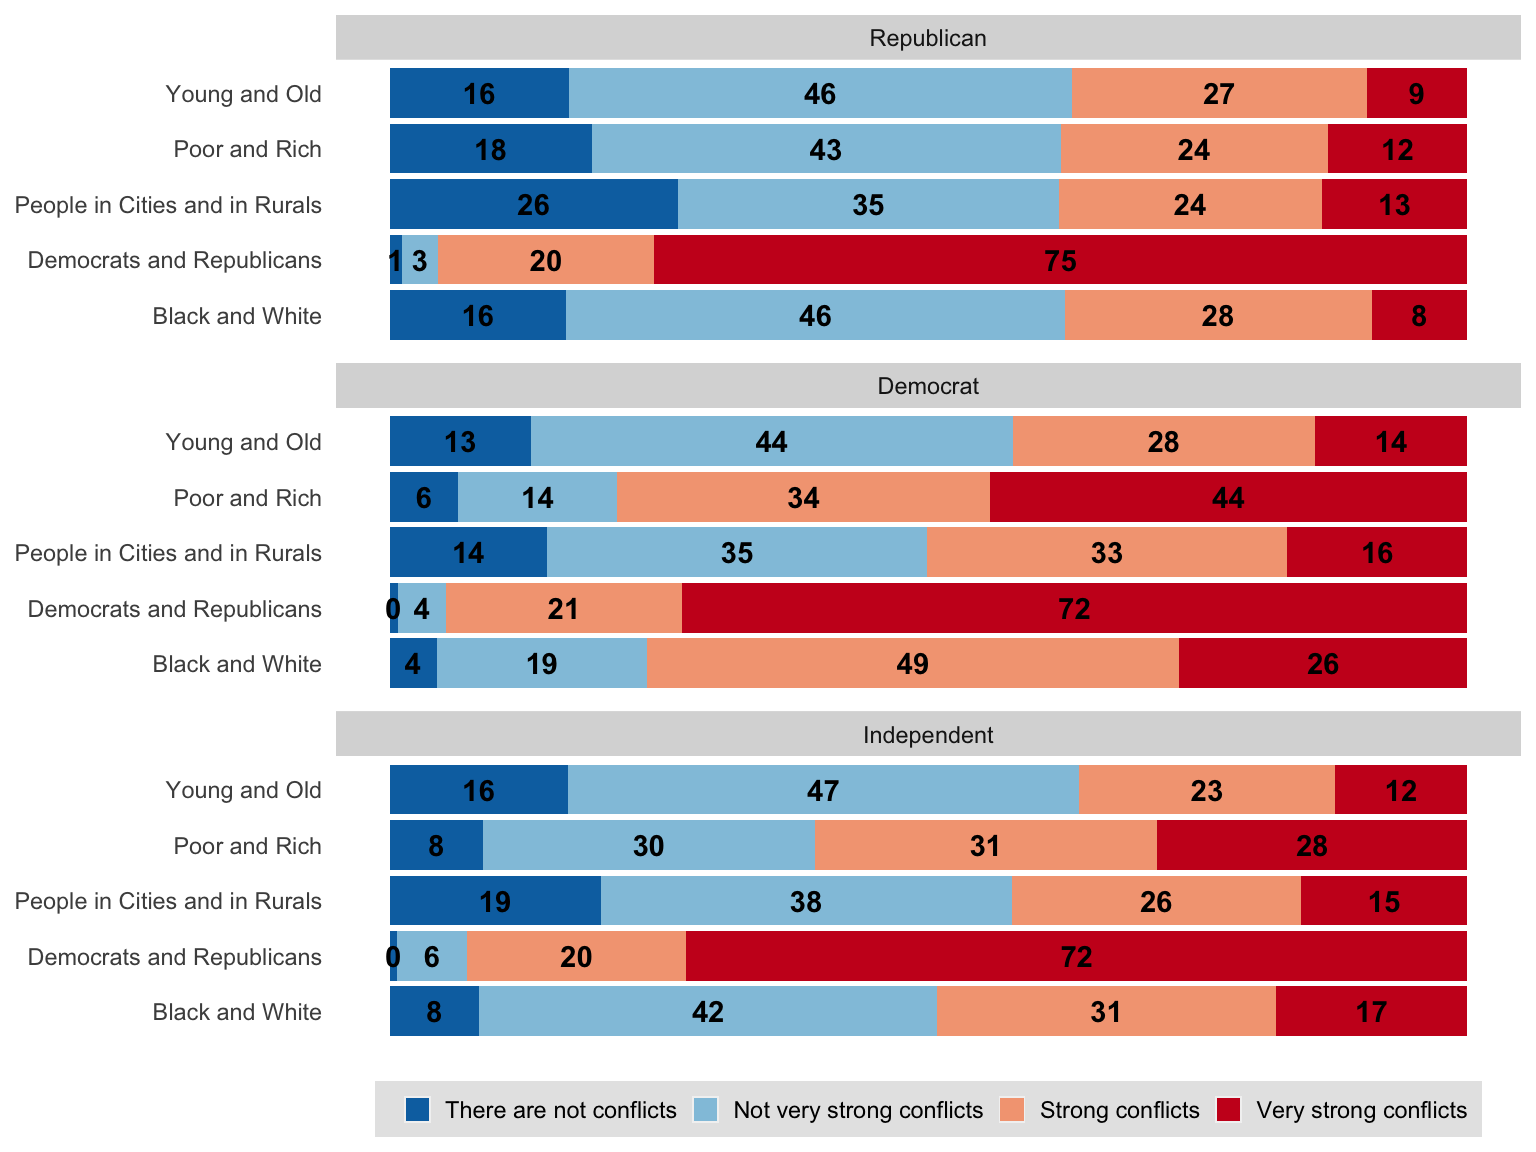
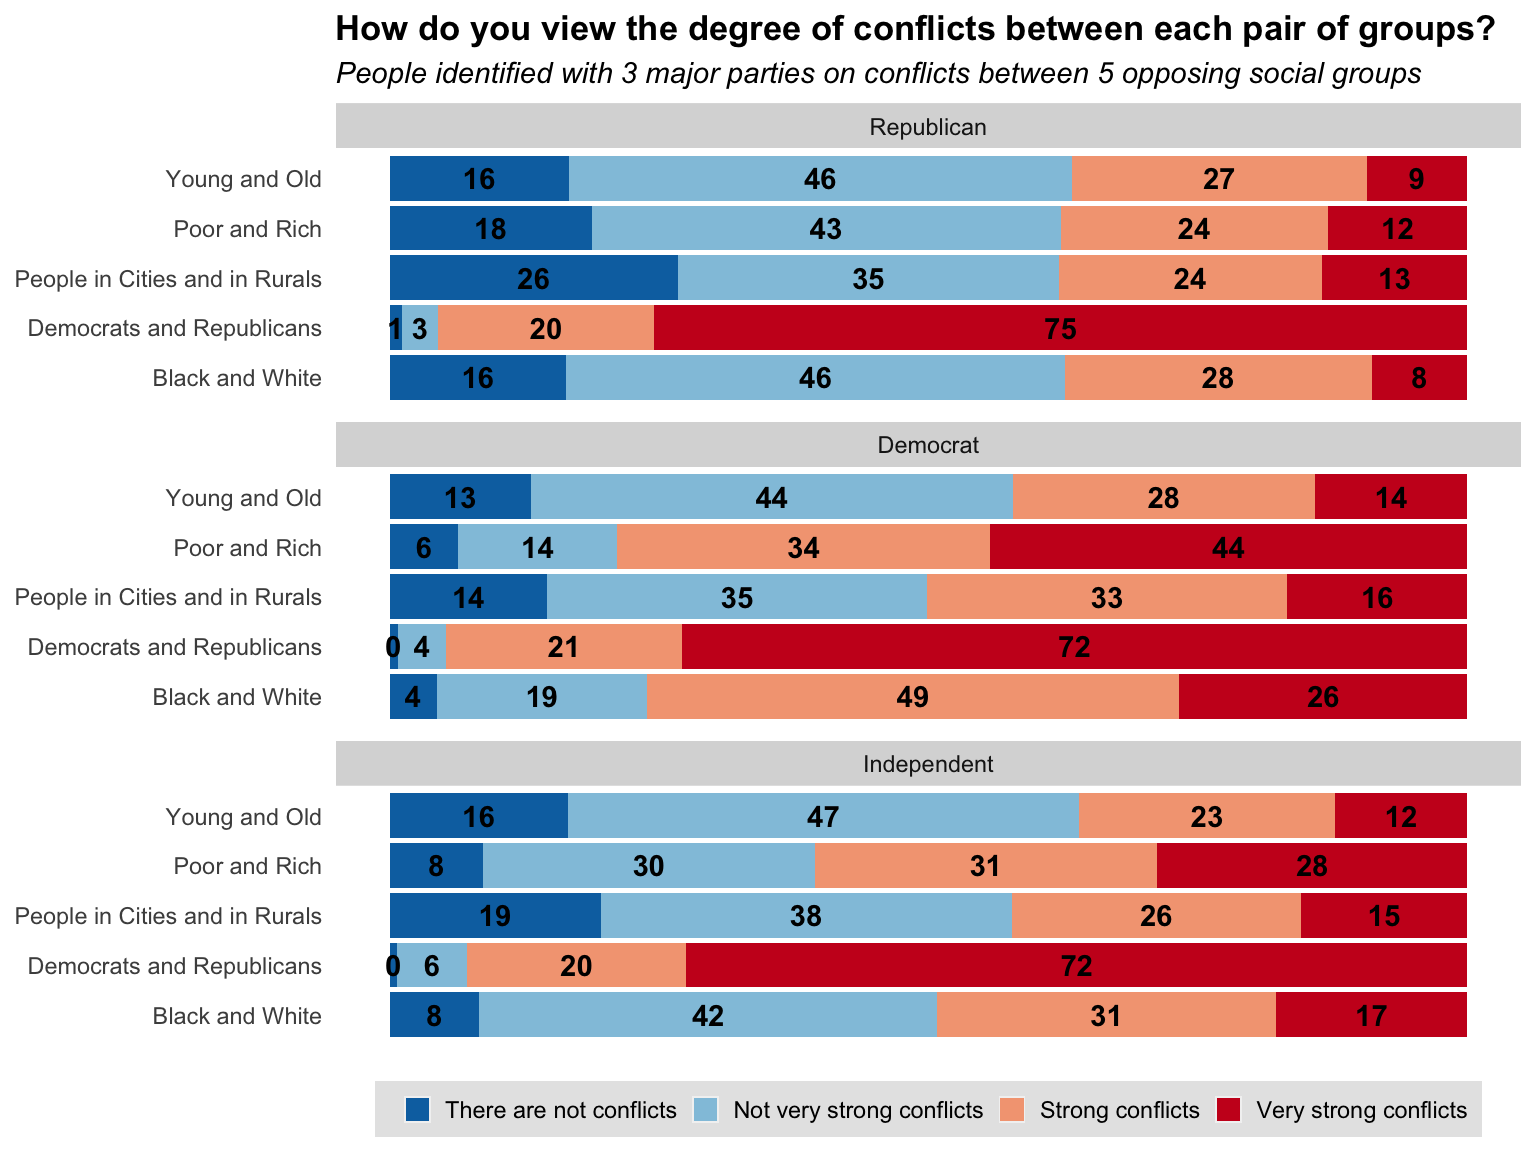
update first figure with titles

diff --git a/docs/results.html b/docs/results.html
@@ -102,7 +102,10 @@
 <h1><span class="header-section-number">Chapter 5</span> Results</h1>
 <p>In this section, we are going to present our answers to each of the questions we proposed in the introduction section and also our process to come up with the answers and our conclusions.</p>
 <ol style="list-style-type: decimal">
-<li><em>Opinions of people identified with different parties on different matters</em></li>
+<li><strong>Opinions of people identified with different parties on different matters</strong></li>
+</ol>
+<ol style="list-style-type: lower-alpha">
+<li><em>Conflicts between different social groups in America</em></li>
 </ol>
 <p><img src="finalproj_files/figure-html/plotting-1.png" width="768" /></p>
 
